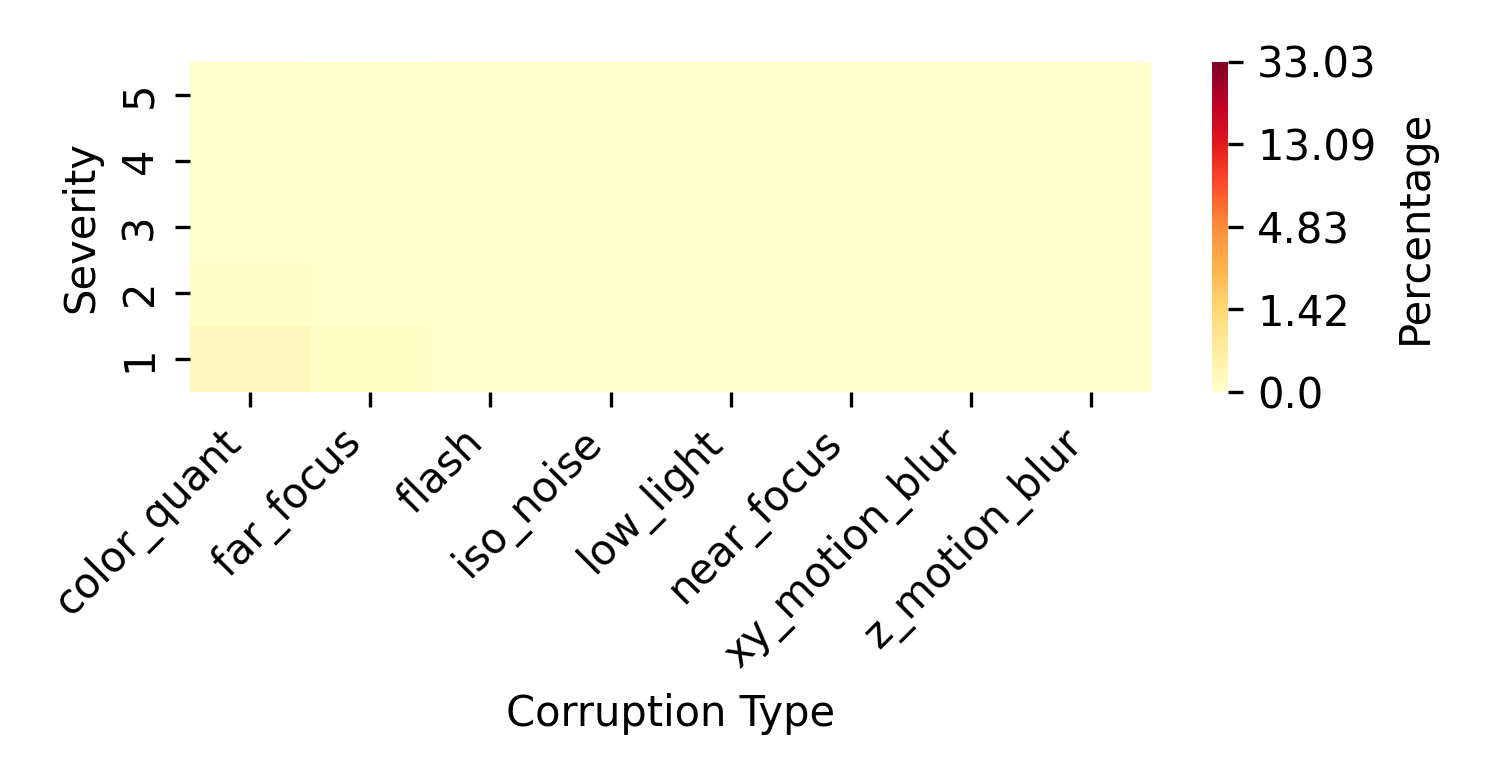
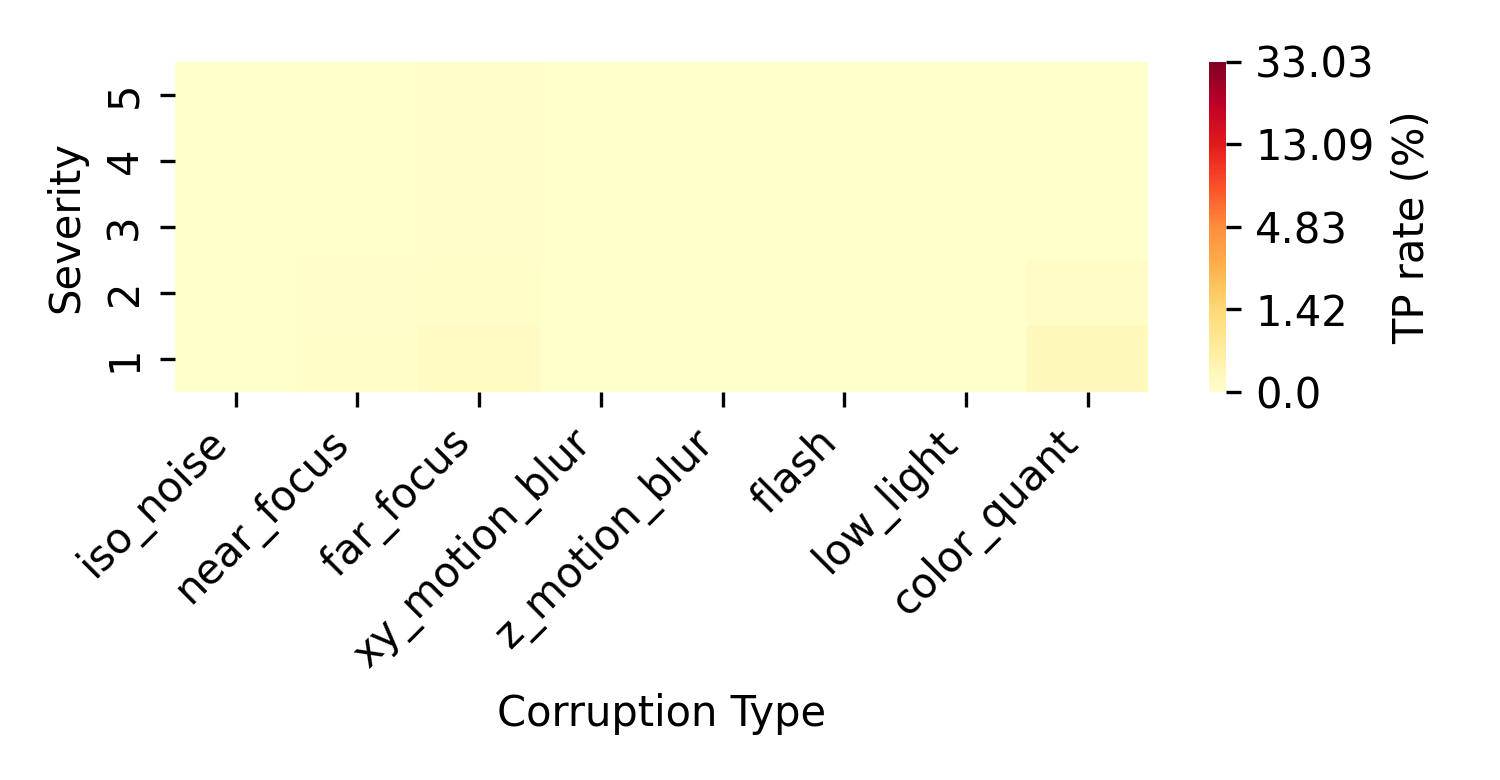
finishing touches to heatmaps (order, legend)

diff --git a/results/semantic/plot.py b/results/semantic/plot.py
@@ -68,6 +68,33 @@ def process_directory(directory_path, use_rate=False):
     df = pd.DataFrame.from_dict({k: pd.Series(v) for k, v in results.items()})
     df.index.name = 'Severity'
     df = df.reindex(sorted(df.columns), axis=1)
+
+    # Drop bit_error if present
+    if 'bit_error' in df.columns:
+        df = df.drop('bit_error', axis=1)
+
+    # Define semantic groupings and sort order
+    imagenet_c_order = [
+        'gaussian_noise', 'shot_noise', 'impulse_noise',  # noise group
+        'defocus_blur', 'glass_blur', 'motion_blur', 'zoom_blur',  # blur group
+        'snow', 'frost', 'fog',  # weather group
+        'brightness', 'contrast',  # intensity group
+        'elastic_transform', 'pixelate', 'jpeg_compression'  # digital group
+    ]
+
+    camera_order = [
+        'iso_noise',  # noise
+        'near_focus', 'far_focus',  # focus
+        'xy_motion_blur', 'z_motion_blur',  # motion
+        'flash', 'low_light',  # lighting
+        'color_quant'  # digital
+    ]
+
+    # Apply the appropriate sort order
+    if all(col in df.columns for col in imagenet_c_order):
+        df = df[imagenet_c_order]
+    elif all(col in df.columns for col in camera_order):
+        df = df[camera_order]
     
     return df, epsilon, metric
 
@@ -118,7 +145,7 @@ def plot_heatmap(df, title, save_path=None, vmin=None, vmax=None):
     
     cbar.set_ticks(tick_locations)
     cbar.set_ticklabels(tick_labels)
-    cbar.set_label('Percentage' if is_rate else 'Count')
+    cbar.set_label('TP rate (%)' if is_rate else 'Count')
     
     plt.tight_layout()
     
